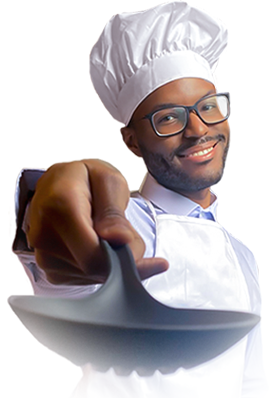
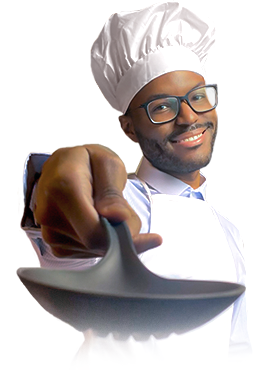
add fixed wrapper and text content

diff --git a/index.html b/index.html
@@ -11,7 +11,6 @@
     <link rel="stylesheet" href="https://use.typekit.net/hbl5zip.css">
 
     <!-- Link to animation -->
-
       <link
         rel="stylesheet"
         href="https://cdnjs.cloudflare.com/ajax/libs/animate.css/4.1.1/animate.min.css"
@@ -21,10 +20,12 @@
   <body>
 
     <header>
-      <img src="images/logo.png" class="logo animate__animated animate__zoomInDown" alt="Melzitup Logo" />
-      <img src="images/bolt.png" class="bolt animate__animated animate__heartBeat" alt="lightning bolt" />
-
       <div class="container">
+        <div class="logo-container">
+          <img src="images/logo.png" class="logo animate__animated animate__zoomInDown" alt="Melzitup Logo" />
+          <img src="images/bolt.png" class="bolt animate__animated animate__heartBeat" alt="lightning bolt" />
+        </div>
+
         <nav>
           <ul>
             <li><a href="index.html">The Model</a></li>
@@ -34,33 +35,63 @@
           </ul>
         </nav>
       </div>
+
     </header>
 
     <main>
-      <section>
-        <h1 class="welcome first">Welcome!</h1>
-        <p class="welcome">Lorem ipsum dolor sit amet, consectetur elit, sed do eiusmod tempor incididunt ut labore et dolore magna aliqua. Ut enim ad minim veniam, quis nostrud exercitation ullamco laboris.<br> <span class="important">- Melz</span></p>
+      <div class="container">
+        <section class="welcome-intro">
+          <div class="welcome-content">
+            <h1 class="welcome first">Welcome!</h1>
+            <p class="welcome">Thank you for visiting my site. This site is an untraditional portfolio, sharing three areas of intrest that I have. These interests are: rapping, cooking, and modeling. Feel free to explore the site and get an inside look at the somewhat hidden aspects of me. Enjoy!<br> <span class="important">- Melz</span></p>
+          </div>
+
+          <img src="images/hero.png" class="hero" alt="Hero Image" />
+        </section>
+      </div>
+
+      <div class="wrapper">
+        <section class="box-links">
+          <div class="box">
+            <h2 class="box-title"><a href="#">scroll<a></h2>
+            <img src="images/model.png" class="trio" alt="Hero Image"/>
+          </div><!-- box -->
+
+          <div class="box">
+            <h2 class="box-title"><a href="#">for<a></h2>
+          <img src="images/rapper.png" class="trio" alt="Hero Image"/>
+          </div><!-- box -->
+
+          <div class="box">
+            <h2 class="box-title"><a href="#">jokes<a></h2>
+          <img src="images/chef.png" class="trio" alt="Hero Image"/>
+          </div><!-- box -->
+        </section>
+      </div><!-- wrapper -->
+
+      <div class="jokes-container">
+        <section class="jokes">
 
 
-        <img src="images/hero.png" class="hero" alt="Hero Image" />
 
-        <div class="wrapper">
-        </div>
-        <div class="box">
-          <h2 class="box-title">View</h2>
-          <img src="images/model.png" class="model" alt="Hero Image" />
+          <h3 class="joke">1. Did you hear about the fire at the circus?</h1>
+          <p class="answer">It was in tents!</p>
 
-        </div>
-        <div class="box">
-          <h2 class="box-title">Listen</h2>
-          <img src="images/rapper.png" class="rapper" alt="Hero Image" />
+          <h3 class="joke">2. Do you want to hear a construction joke?</h1>
+          <p class="answer">Sorry, i'm still working on it.</p>
 
-        </div>
-        <div class="box">
-          <h2 class="box-title">Taste</h2>
-          <img src="images/chef.png" class="chef" alt="Hero Image" />
-        </div>
-      </section>
+          <h3 class="joke">3. Why should you never trust stairs?</h1>
+          <p class="answer">They’re always up to something.</p>
+
+          <h3 class="joke">4. What does a house wear?</h1>
+          <p class="answer">Address!</p>
+
+          <h3 class="joke">5. Want to hear a joke about a roof?</h1>
+          <p class="answer">The first one’s on the house.</p>
+
+
+          <h5 class="source"><span class="source-title">Source:</span>Liles, M. (2020, September 29). 101 Good, Clean Jokes That'll Make You Laugh Your Pants Off. <br> Retrieved from https://parade.com/1041830/marynliles/clean-jokes/</h4>
+          </div>
     </main>
   </body>
 </html>

diff --git a/CSS/style.css b/CSS/style.css
@@ -14,6 +14,7 @@ Universal Styling
 
 body {
   background-color:#a57e69;
+  height: 2000px
 }
 
 
@@ -21,7 +22,6 @@ h1 {
   font-size: 36px;
   font-family: lato;
   color: #fcb6ca;
-  position: relative;
 }
 
 p {
@@ -32,14 +32,16 @@ p {
 }
 
 .important {
-  font-family:lato, sans-serif;
-  font-weight: bolder;
-  font-size:23px;
+  font-family: adobe-handwriting-ernie, sans-serif;
+  font-size:28px;
   color:#fcb6ca;
-  padding: 0 6px;
-  font-style: italic;
+  padding: 20px;
   float: right;
-  margin-right: 26px;
+}
+
+.container {
+    max-width: 800px;
+    margin: 0 auto;
 }
 
 /*===========================================================
@@ -53,13 +55,19 @@ header {
   background-color:#88634f;
 }
 
+header .container {
+    max-width: 1000px;
+    margin: 0 auto;
+}
 
 header nav {
-  display: inline-block;
-  width: 45%;
-  text-align: right;
-  position: absolute;
-  top: 40px;
+    display: inline-block;
+    width: 65%;
+    color: #ffffff;
+    position: relative;
+    top: -35px;
+    padding-left: 45px;
+    box-sizing: border-box;
 }
 
 header nav li {
@@ -77,15 +85,21 @@ nav li a:hover {
   color: #fcb6ca;
 }
 
-nav {
-  color: #ffffff;
-  position: fixed;
-  left: 520px;
-}
-
 nav li a {
   color:#ffffff;
   text-decoration:none;
+}
+
+.logo-container {
+    display: inline-block;
+    width: 30%;
+    position: relative;
+}
+
+.bolt {
+    position: absolute;
+    left: 134px;
+    top: 5px;
 }
 
 /*===========================================================
@@ -93,23 +107,19 @@ nav li a {
 Home Page Styling
 
 ==========================================================*/
-main {
-  position: fixed;
+
+.container section {
+    margin: 55px 0 90px 0;
+    height: 398px;
 }
+
 .current {
   color: #fcb6ca;
 }
 
-.logo {
-  position: relative;
-  left: 440px;
-}
 
 .welcome {
   max-width: 375px;
-  position: relative;
-  top: 70px;
-  left: 550px;
 }
 
 .first {
@@ -117,11 +127,15 @@ main {
   font-size:43px;
 }
 
+.welcome-content {
+    width: 49%;
+    display: inline-block;
+    vertical-align: top;
+}
+
 .hero {
-  position: relative;
-  height: 350px;
-  left: 30px;
-  bottom:190px;
+    display: inline-block;
+    width: 49%;
 }
 
 .wrapper {
@@ -131,32 +145,46 @@ main {
   position:fixed;
 }
 
-.box {
-  position: relative;
-  width: 257px;
-  height: 396px;
-  border-radius: 20px;
-  background: #ffffff linear-gradient(360deg, #ffffff 22%, #fcb6ca 60%);
-  float: left;
-  filter: drop-shadow(0px 2px 2px #cd91a2);
-  margin: 20px;
-  left: 500px;
-  top: 200px;
+.box-links {
+    max-width: 1000px;
+    margin: 0 auto;
+    position: relative;
+    top: -130px;
+    text-align: center;
 }
 
-.chef, .model, .rapper {
-  position: fixed;
-  margin: -50px -6px;
-  float: right;
-  right: 6px;
+.box {
+  position: relative;
+  width: 26%;
+  height: 355px;
+  border-radius: 20px;
+  background: #ffffff linear-gradient(360deg, #ffffff 22%, #fcb6ca 60%);
+  filter: drop-shadow(0px 2px 2px #cd91a2);
+  margin: 60px 20px 0px 20px;
+  display: inline-block;
+  max-width: 257px;
+}
+
+.box-links a {
+    color: #ffe8dd;
+    text-decoration: none;
+}
+
+.box-links a:hover {
+    color: #fcb6ca;
+}
+
+img.trio {
+    position: relative;
+    margin: -90px;
+    right: 8px;
 }
 
 .box-title {
   text-align: center;
   position: relative;
-  bottom: 65px;
+  bottom: 100px;
   margin-top:30px;
-
   font-family: termina, helvetica;
   font-weight: bolder;
   font-size: 18px;
@@ -164,7 +192,43 @@ main {
   color: #ffe8dd;
 }
 
-.bolt {
-  position: relative;
-  left: 240px;
+.jokes-container {
+    text-align: center;
+    height: 1350px;
+    padding: 0 0 600px;
+    background: #88634f;
+    padding: 120px;
+    border-top: 5px solid pink;
+}
+
+.answer {
+    font-size: 18px;
+    font-family: lato, sans-serif;
+    font-weight: bold;
+    color: #fcb6ca;
+    padding: 40px;
+}
+
+h3.joke {
+    font-size: 27px;
+    font-family: lato;
+    color: white;
+}
+
+.source-title {
+    color: white;
+    font-family: lato, sans-serif;
+    font-size: 17px;
+    padding: 0 10px;
+}
+
+h5.source {
+    max-width: 800px;
+    margin: 0 auto;
+    font-family: sans-serif;
+    font-size: 15px;
+    color: pink;
+    padding: 15px;
+    border: 2px solid pink;
+    border-radius: 15px;
 }
